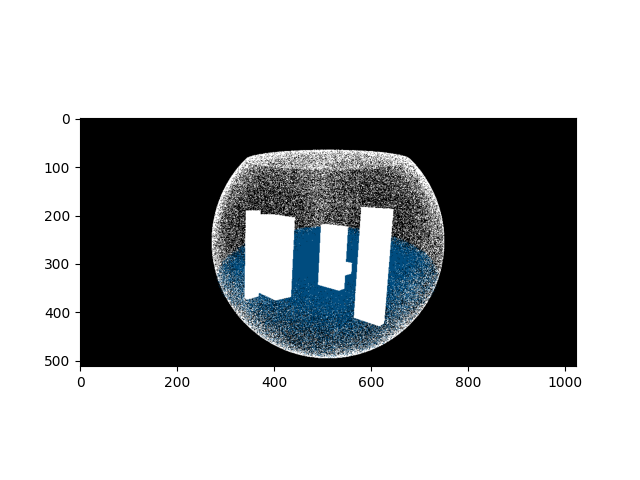
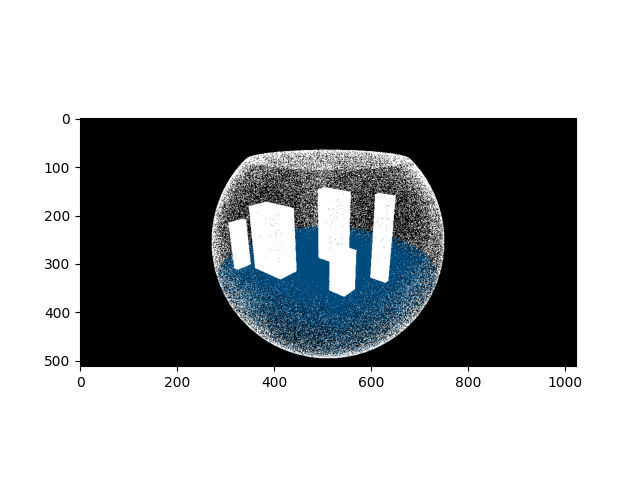
Remove rotations in buildings

Changed region(s): [[0.3125, 0.3125, 0.7188, 0.75]]

diff --git a/Classes/UH2021/PatMat/Renderer/FishTank/FishTank.cs b/Classes/UH2021/PatMat/Renderer/FishTank/FishTank.cs
@@ -24,105 +24,91 @@ namespace Renderer.FishTank
             Lake = new Lake(radius, -7 * radius / 8, -radius / 5);
 
             Building1 = new Building(0.2f, 1.4f, 0.6f);
-            Building2 = new Building(0.3f, 0.2f, 0.3f);
-            Building3 = new Building(0.3f, 1.9f, 0.1f);
-            Building4 = new Building(0.4f, 1.7f, 0.7f);
-            Building5 = new Building(0.2f, 2.3f, 0.6f);
+            Building2 = new Building(0.3f, 0.7f, 0.3f);
+            Building3 = new Building(0.3f, 0.9f, 0.1f);
+            Building4 = new Building(0.4f, 1.2f, 0.7f);
+            Building5 = new Building(0.1f, 1.5f, 0.3f);
         }
 
         public override IEnumerable<(float3, float4)> Samples(int n)
         {
             foreach (var p in FishTankGlass.Samples(n))
                 yield return p;
+
             foreach (var p in Lake.Samples(3 * n))
                 yield return p;
 
-            foreach (var cp in Building1.Samples(5 * n))
+            foreach (var cp in Building1.Samples(n))
             {
                 var p = cp.Item1;
                 var c = cp.Item2;
 
-                var transform = Gfx.mul(
-                    Transforms.Translate(0.2f, -0.7f, 0.2f),
-                    Transforms.RotateRespectTo(
-                        Gfx.float3(0, 0, 0),
-                        Gfx.float3(-0.2f, 0, 0.4f),
-                        Gfx.pi / 6
-                    )
-                );
-                p = ApplyTransform(p, transform);
+                p = ApplyTransform(p, Transforms.Translate(0.2f, 0.5f * Building1.ScaleY + Lake.Top, 0.2f));
+                // p = ApplyTransform(p, Transforms.RotateRespectTo(
+                //         Gfx.float3(0, 0, 0),
+                //         Gfx.float3(-0.2f, 0, 0.4f),
+                //         Gfx.pi / 6
+                //     ));
 
                 yield return (p, c);
             }
 
-            foreach (var cp in Building2.Samples(5 * n))
+            foreach (var cp in Building2.Samples(n))
             {
                 var p = cp.Item1;
                 var c = cp.Item2;
 
-                var transform = Gfx.mul(
-                    Transforms.Translate(1f, -0.7f, 1f),
-                    Transforms.RotateRespectTo(
-                        Gfx.float3(0, 0, 0),
-                        Gfx.float3(-0.2f, 0, 0.4f),
-                        Gfx.pi / 6
-                    )
-                );
-                p = ApplyTransform(p, transform);
+                p = ApplyTransform(p, Transforms.Translate(1f, 0.5f * Building2.ScaleY + Lake.Top, 1f));
+                // p = ApplyTransform(p, Transforms.RotateRespectTo(
+                //         Gfx.float3(0, 0, 0),
+                //         Gfx.float3(-0.2f, 0, 0.4f),
+                //         Gfx.pi / 6
+                //     ));
 
                 yield return (p, c);
             }
 
-            foreach (var cp in Building3.Samples(5 * n))
+            foreach (var cp in Building3.Samples(n))
             {
                 var p = cp.Item1;
                 var c = cp.Item2;
 
-                var transform = Gfx.mul(
-                    Transforms.Translate(1.5f, -0.7f, -1f),
-                    Transforms.RotateRespectTo(
-                        Gfx.float3(0, 0, 0),
-                        Gfx.float3(-0.2f, 0, 0.4f),
-                        Gfx.pi / 6
-                    )
-                );
-                p = ApplyTransform(p, transform);
+                p = ApplyTransform(p, Transforms.Translate(1.5f, 0.5f * Building3.ScaleY + Lake.Top, -1f));
+                // p = ApplyTransform(p, Transforms.RotateRespectTo(
+                //         Gfx.float3(0, 0, 0),
+                //         Gfx.float3(-0.2f, 0, 0.4f),
+                //         Gfx.pi / 6
+                //     ));
 
                 yield return (p, c);
             }
 
-            foreach (var cp in Building4.Samples(5 * n))
+            foreach (var cp in Building4.Samples(n))
             {
                 var p = cp.Item1;
                 var c = cp.Item2;
 
-                var transform = Gfx.mul(
-                    Transforms.Translate(1.2f, -0.7f, -0.4f),
-                    Transforms.RotateRespectTo(
-                        Gfx.float3(0, 0, 0),
-                        Gfx.float3(-0.2f, 0.2f, 0.4f),
-                        Gfx.pi / 6
-                    )
-                );
-                p = ApplyTransform(p, transform);
+                p = ApplyTransform(p, Transforms.Translate(1.2f, 0.5f * Building4.ScaleY + Lake.Top, -0.4f));
+                // p = ApplyTransform(p, Transforms.RotateRespectTo(
+                //         Gfx.float3(0, 0, 0),
+                //         Gfx.float3(-0.2f, 0.2f, 0.4f),
+                //         Gfx.pi / 6
+                //     ));
 
                 yield return (p, c);
             }
 
-            foreach (var cp in Building5.Samples(5 * n))
+            foreach (var cp in Building5.Samples(n))
             {
                 var p = cp.Item1;
                 var c = cp.Item2;
 
-                var transform = Gfx.mul(
-                    Transforms.Translate(0.3f, -0.7f, 1.3f),
-                    Transforms.RotateRespectTo(
-                        Gfx.float3(0, 0, 0),
-                        Gfx.float3(-0.2f, 0, 0.4f),
-                        Gfx.pi / 6
-                    )
-                );
-                p = ApplyTransform(p, transform);
+                p = ApplyTransform(p, Transforms.Translate(0.3f, 0.5f * Building5.ScaleY + Lake.Top, 1.3f));
+                // p = ApplyTransform(p, Transforms.RotateRespectTo(
+                //         Gfx.float3(0, 0, 0),
+                //         Gfx.float3(-0.2f, 0, 0.4f),
+                //         Gfx.pi / 6
+                //     ));
 
                 yield return (p, c);
             }
